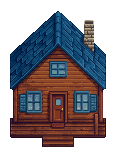
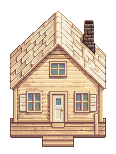
MAFIA 2 lab: his huts 9 and 10, left post is his post flipped, walk behind the huts in the lobby (hut fades while you are behind it)

diff --git a/mafia2-lab/index.html b/mafia2-lab/index.html
@@ -576,7 +576,7 @@ SKINS.forEach(s=>{if(s.rar!=='common')s.from='Mafia Case';});
 const OWNED=new Set(SKINS.filter(s=>s.rar==='common').map(s=>s.id)); // what this player has unlocked: the common outfits to start, the rest come from the Mafia case
 const ROLE_SPR={mafia:'mafia',doctor:'doctor',jester:'jester',detective:'detective'};
 const IMG={};
-const BUILD='11121122'; // changes every push, so phones never show an old picture from their cache
+const BUILD='11121133'; // changes every push, so phones never show an old picture from their cache
 document.getElementById('buildTag').textContent='v'+BUILD; // which version this is, so an old cached copy is easy to spot
 const load=(n,src)=>new Promise((res,rej)=>{const i=new Image();i.onload=()=>{IMG[n]=i;res()};i.onerror=()=>rej(new Error('missing '+src));i.src=src+'?v='+BUILD;});
 
@@ -700,7 +700,7 @@ function drawChar(c){
 const OBJ={};
 function makeObj(name,img,m){const sh=mk(img.width,img.height),x=sh.getContext('2d');x.drawImage(img,0,0);x.globalCompositeOperation='source-in';x.fillStyle='#000';x.fillRect(0,0,sh.width,sh.height);
   OBJ[name]={name,img,shadow:sh,...m};}
-function drawObj(o){if(o.base>0){lx.globalAlpha=.3;lx.drawImage(o.shadow,X(o.x)+1,Y(o.y)+2);lx.globalAlpha=1;}lx.drawImage(o.img,X(o.x),Y(o.y));if(o.after)o.after();}
+function drawObj(o){if(o.shadow&&o.base>0){lx.globalAlpha=.3;lx.drawImage(o.shadow,X(o.x)+1,Y(o.y)+2);lx.globalAlpha=1;}if(o.alpha<1)lx.globalAlpha=o.alpha;lx.drawImage(o.img,X(o.x),Y(o.y));lx.globalAlpha=1;if(o.after)o.after();}
 function patchObj(name,r){const o=OBJ[name];lx.drawImage(o.img,r[0]-o.x,r[1]-o.y,r[2]-r[0],r[3]-r[1],X(r[0]),Y(r[1]),r[2]-r[0],r[3]-r[1]);}
 // a town post / lamp / string; while the night's wash is on, a copy washed the same way (only its own pixels)
 const DIMMED={};
@@ -835,7 +835,7 @@ function townLights(t,o={},part){ // part 'win' = only the cabin windows (draw b
    TOWN.cabins says (lights, the kill scene and the door opening keep working for every theme). */
 const CABIN_FRAME={dx:-58,dy:-90,w:116,h:154};
 const CABIN_THEMES={
-  // the hut he drew for each spot (he drew 8: spots 0 and 9 reuse huts 6 and 4 until he draws two more)
+  // the hut he drew for each spot (his huts 1-9 are spots 1-9, his hut 10 is spot 0)
   classic:{name:'Classic',rarity:'common',art:ci=>`assets/town4/cabins/cabin${ci}.png`},
   // unlockables from the Mafia case go here, one picture that fits any spot, e.g.
   // dark:{name:'Dark Cabin',rarity:'rare',art:()=>'assets/cabins/dark.png'},
@@ -855,7 +855,7 @@ function buildTown(){const b=IMG.townBase,c=mk(b.width,b.height),x=c.getContext(
   TOWN.cabins.forEach((cb,ci)=>x.drawImage(IMG[cabinKey(ci)],cb.cx+CABIN_FRAME.dx,cb.top+CABIN_FRAME.dy));
   TOWN.cabins.forEach((cb,ci)=>cabinSign(x,ci));
   TOWN.occ.forEach(o=>x.drawImage(IMG['prop/'+o.k],o.x,o.y));
-  IMG.town=c;if(typeof DAYIMG!=='undefined')delete DAYIMG.town;}
+  IMG.town=c;if(typeof DAYIMG!=='undefined')for(const k in DAYIMG)delete DAYIMG[k];}
 // change someone's cabin (from an unlock), then rebuild the town picture
 async function setCabinTheme(person,id){if(!CABIN_THEMES[id])return false;PEOPLE[person].cabinTheme=id;await loadCabins();buildTown();return true;}
 function doorOpen(ci,a){if(a<=0)return;const r=TOWN.cabins[ci].door;lx.fillStyle=`rgba(8,5,14,${a})`;lx.fillRect(X(r[0]),Y(r[1]),r[2]-r[0],r[3]-r[1]);}
@@ -2153,12 +2153,14 @@ cv.addEventListener('pointerdown',e=>{if(scene!==scenes.ghost||G.fading||documen
 // The town in daylight: his own day ground (assets/town4/day.png), his huts as they are, and the posts, lamps and bulb
 // strings with the lights off (assets/town4/props-off). Nothing is recoloured by code any more (12 Nov: "ill just do it myself").
 // The puddles are painted into his day picture, so they are there rain or no rain.
-function dayTown(){const c=mk(560,750),x=c.getContext('2d');x.drawImage(IMG.townDay,0,0);
-  TOWN.cabins.forEach((cb,ci)=>x.drawImage(IMG[cabinKey(ci)],cb.cx+CABIN_FRAME.dx,cb.top+CABIN_FRAME.dy));
-  TOWN.cabins.forEach((cb,ci)=>cabinSign(x,ci));
-  TOWN.occ.forEach(o=>x.drawImage(dayImg('prop/'+o.k),o.x,o.y));return c;}
-const DAYIMG={};
-const dayImg=k=>k==='town'?(DAYIMG.town||(DAYIMG.town=dayTown())):IMG[k.replace('prop/','propoff/')];
+// 'ground' = the grass, road and posts; 'cabins' = each hut (with its name sign) as its own picture, so the waiting lobby
+// can draw people behind a hut and fade the hut; 'town' = the two together, for the scenes where nobody walks behind one.
+function dayGround(){const c=mk(560,750),x=c.getContext('2d');x.drawImage(IMG.townDay,0,0);TOWN.occ.forEach(o=>x.drawImage(dayImg('prop/'+o.k),o.x,o.y));return c;}
+function dayCabins(){return TOWN.cabins.map((cb,ci)=>{const c=mk(CABIN_FRAME.w,CABIN_FRAME.h),x=c.getContext('2d'),ox=cb.cx+CABIN_FRAME.dx,oy=cb.top+CABIN_FRAME.dy;
+  x.drawImage(IMG[cabinKey(ci)],0,0);x.translate(-ox,-oy);cabinSign(x,ci);return{img:c,x:ox,y:oy,base:cb.top+CABIN_BACK+1,ci};});}
+function dayTown(){const c=mk(560,750),x=c.getContext('2d');x.drawImage(dayImg('ground'),0,0);dayImg('cabins').forEach(o=>x.drawImage(o.img,o.x,o.y));return c;}
+const DAYIMG={},DAYMAKE={town:dayTown,ground:dayGround,cabins:dayCabins};
+const dayImg=k=>DAYMAKE[k]?(DAYIMG[k]||(DAYIMG[k]=DAYMAKE[k]())):IMG[k.replace('prop/','propoff/')];
 let dayMode=false;
 const T={sel:-1,pos:{},muted:new Set(),notes:{},birds:[],next:2,clock:90,speak:null,st:0,bub:'...',clouds:[{x:120,y:300,r:70,v:7},{x:420,y:430,r:90,v:5}],leaves:[]};
 const TALK_LINES=['Who do you think it was?','Somebody saw something.','Keep your eyes on the quiet ones.','Careful who you trust.','It was awfully quiet last night…'];
@@ -2232,9 +2234,17 @@ $('#dawnGo').onclick=()=>{$('#dayTag').textContent='DAY 3';go(N.meDead?'ghost':'
 const TG=6,TGW=94,TGH=125;let TOWNG=null;
 const WHEEL_AT=[280,364];   // where the wheel's stand meets the stage
 const DIR8=[[1,0],[-1,0],[0,1],[0,-1],[1,1],[1,-1],[-1,1],[-1,-1]];
-function buildTownGrid(){TOWNG=new Uint8Array(TGW*TGH);   // you can walk anywhere but through a cabin or the wheel (puddles are fine)
+// WALKING BEHIND A HUT (his call, 12 Nov): only the strip the hut stands on is solid (from CABIN_BACK above the door top
+// down to the doorstep). Above that strip you are behind the hut: it is drawn over you, and while YOU are behind one
+// it fades so you can see yourself.
+const CABIN_BACK=-10,CABMASK={};
+function cabMask(ci){const k=cabinKey(ci);if(!CABMASK[k]){const im=IMG[k],c=mk(im.width,im.height),x=c.getContext('2d');x.drawImage(im,0,0);CABMASK[k]=x.getImageData(0,0,im.width,im.height);}return CABMASK[k];}
+// which hut is in front of someone standing at x,y (their feet); -1 = none. Tested on the hut's own shape, at their feet, middle and head.
+function behindCabin(x,y){for(let ci=0;ci<TOWN.cabins.length;ci++){const cb=TOWN.cabins[ci];if(y>cb.top+CABIN_BACK||Math.abs(x-cb.cx)>60)continue;const m=cabMask(ci);
+    for(const dy of[-3,-12,-22]){const px=Math.round(x-cb.cx-CABIN_FRAME.dx),py=Math.round(y+dy-cb.top-CABIN_FRAME.dy);if(px>=0&&py>=0&&px<m.width&&py<m.height&&m.data[(py*m.width+px)*4+3]>0)return ci;}}return -1;}
+function buildTownGrid(){TOWNG=new Uint8Array(TGW*TGH);   // you can walk anywhere but through a hut's floor or the wheel (puddles are fine)
   for(let gy=0;gy<TGH;gy++)for(let gx=0;gx<TGW;gx++){const px=gx*TG+3,py=gy*TG+3;let ok=px>18&&px<542&&py>58&&py<736;
-    if(ok&&TOWN.cabins.some(cb=>px>cb.cx-50&&px<cb.cx+50&&py>cb.top-86&&py<cb.top+31))ok=false;                      // a cabin
+    if(ok&&TOWN.cabins.some(cb=>px>cb.cx-50&&px<cb.cx+50&&py>cb.top+CABIN_BACK&&py<cb.top+31))ok=false;               // the floor of a hut
     if(ok&&((px-WHEEL_AT[0])/14)**2+((py-WHEEL_AT[1])/8)**2<1)ok=false;                                              // the wheel's stand
     TOWNG[gy*TGW+gx]=ok?1:0;}}
 const townOk=(x,y)=>{const gx=Math.floor(x/TG),gy=Math.floor(y/TG);return gx>=0&&gy>=0&&gx<TGW&&gy<TGH&&!!TOWNG[gy*TGW+gx];};
@@ -2400,9 +2410,11 @@ scenes.town={hud:'#townHud',
       rain(dt,ROOM.windows.map(w=>[X(w[0]),Y(w[1]),w[2],w[3]]));fireAcc+=dt;while(fireAcc>.06){stepFire();fireAcc-=.06;}
       hits=drawScene(people,null,IMG.room,ROOM_OBJS);wlFx(dt,m.loc);
       const fl=.5+.5*noise(t*1.7,2);lights([[33,81,70,'255,130,40',.24+.1*fl,1],[61,64,26,'255,210,140',.3,2],[133,64,26,'255,210,140',.3,3],[151,58,22,'170,255,170',.16,4]],t,ROOM_MASK);
-    }else{dayMode=true;const img=dayImg('town');view(img,m.x+sh,m.y+24,190,{loose:true});
+    }else{dayMode=true;const img=dayImg('ground');view(img,m.x+sh,m.y+24,190,{loose:true});
+      const hid=behindCabin(m.x,m.y);WL.cabA=WL.cabA||TOWN.cabins.map(()=>1);
+      const huts=dayImg('cabins').map(o=>{const a=WL.cabA[o.ci]=clamp(WL.cabA[o.ci]+(o.ci===hid?-1:1)*dt*4,.4,1);return a<1?{...o,alpha:a}:o;});
       if(WL.sel&&WL.sel.loc===m.loc){const q=Math.floor(t/200)%2;lx.strokeStyle=q?'#ffd25e':'#fff2a8';lx.lineWidth=1;lx.beginPath();lx.ellipse(X(WL.sel.x)+.5,Y(WL.sel.y)+.5,9+q,3+q*.5,0,0,7);lx.stroke();}
-      hits=drawScene(people,TOWN.occ,img,[wheelObj()]);wlFx(dt,-1);
+      hits=drawScene(people,TOWN.occ,img,[wheelObj(),...huts]);wlFx(dt,-1);
       lx.fillStyle='rgba(255,236,190,.06)';lx.fillRect(0,0,cam.lw,cam.lh);}
     // stars going round the head of anyone knocked flat
     for(const p of people){const k=p.e.ko,h=hits.get(p);if(!k||k.t>1.25||!h)continue;lx.fillStyle='#ffd25e';for(let i=0;i<3;i++){const a=t*.009+i*2.1;lx.fillRect(Math.round(h.cx+Math.cos(a)*8),Math.round(h.top-3+Math.sin(a)*2.5),2,2);}}
@@ -2424,7 +2436,7 @@ cv.addEventListener('pointerdown',e=>{if(scene!==scenes.town||WL.fading||documen
   if(m.loc>=0){if(y>198||inR(ROOM.door.hit,x,y)){wlGo(m,98,226,()=>wlDoor(-1));return;}
     wlGo(m,clamp(x,17,179),clamp(y,77,231));holdWalk(e,scenes.town,(x,y)=>{const m=WL.me;if(m.loc>=0&&!m.ko&&y<=198)wlGo(m,clamp(x,17,179),clamp(y,77,231));});return;}
   if(Math.hypot(x-WHEEL_AT[0],y-(WHEEL_AT[1]-27))<26){wlGo(m,WHEEL_AT[0],WHEEL_AT[1]+14,()=>{m.dir='back';wheelOpen();});return;}
-  const ci=TOWN.cabins.findIndex(c=>Math.abs(x-c.cx)<34&&y>c.top-60&&y<c.top+32);
+  const ci=TOWN.cabins.findIndex(c=>Math.abs(x-c.cx)<34&&y>c.top-32&&y<c.top+32);   // the walls and the door (the roof is not: tap it to walk round the back)
   if(ci>=0){const c=TOWN.cabins[ci];wlGo(m,c.cx,c.top+36,()=>wlDoor(ci));return;}
   wlGo(m,x,y+6);holdWalk(e,scenes.town,(x,y)=>{const m=WL.me;if(m.loc<0&&!m.ko)wlGo(m,x,y+6);});});
 

diff --git a/mafia2-lab/tools/make_town_art.py b/mafia2-lab/tools/make_town_art.py
@@ -2,15 +2,15 @@
 
 He drew these in  Dropbox/Documents/chrispy games/town background assets/NEW :
   night.png, day.png        the whole ground, 560 x 750, road and trees painted in (no cabins, no posts)
-  cabins/cabin1..8.png      eight huts, 152 x 152 (cabin-5.png is hut 5)
+  cabins/cabin1..10.png     ten huts, 152 x 152 (cabin-5.png and cabin-10.png are huts 5 and 10)
   lights/*.png              chain3, lamp2, post2, strings with the bulbs OFF (for the day)
 
 What this does, and nothing more (it never repaints his art):
   * copies night.png / day.png to assets/town4/
   * moves each hut into the game's 116 x 154 hut frame (his picture sits 17 px right and 3 px up of it)
-  * the town has 10 hut spots and he drew 8: spots 0 and 9 reuse huts 6 and 4 until he draws two more
+  * the game counts its hut spots 0-9 and he counts his huts 1-10: hut N goes on spot N, and hut 10 goes on spot 0 (top middle)
   * lights off: his four pictures as they are; chain5 and lamp4 are mirror twins of chain3 and lamp2, so they are his
-    pictures flipped; lamp1, lamp3 and post1 he did not draw, so only their bulb pixels are turned to the same greys he
+    pictures flipped, and post1 is his post2 flipped (his call); lamp1 and lamp3 he did not draw, so only their bulb pixels are turned to the same greys he
     used (looked up from his own before/after colours); posts with no bulb are copied unchanged
 """
 import os, shutil, sys
@@ -19,7 +19,7 @@ from PIL import Image, ImageOps
 SRC = r'C:\Users\Chris\Dropbox\Documents\chrispy games\town background assets\NEW'
 OUT = 'assets/town4'
 LIT = 'assets/town3/props'
-HUT_FOR_SPOT = {0: 6, 9: 4}          # spots with no hut of their own yet
+HUT_FOR_SPOT = {0: 10}               # spot 0 (top middle) is his hut 10
 HUT_DX, HUT_DY = 17, -3              # where the game's hut frame starts inside his 152 x 152 picture
 
 def main():
@@ -50,6 +50,7 @@ def main():
         if n in his: out = his[n]
         elif n == 'chain5': out = ImageOps.mirror(his['chain3'])
         elif n == 'lamp4': out = ImageOps.mirror(his['lamp2'])
+        elif n == 'post1': out = ImageOps.mirror(his['post2'])      # his call: the left post is his right post flipped
         else:
             out = lit.copy(); px = out.load()
             for y in range(out.height):
